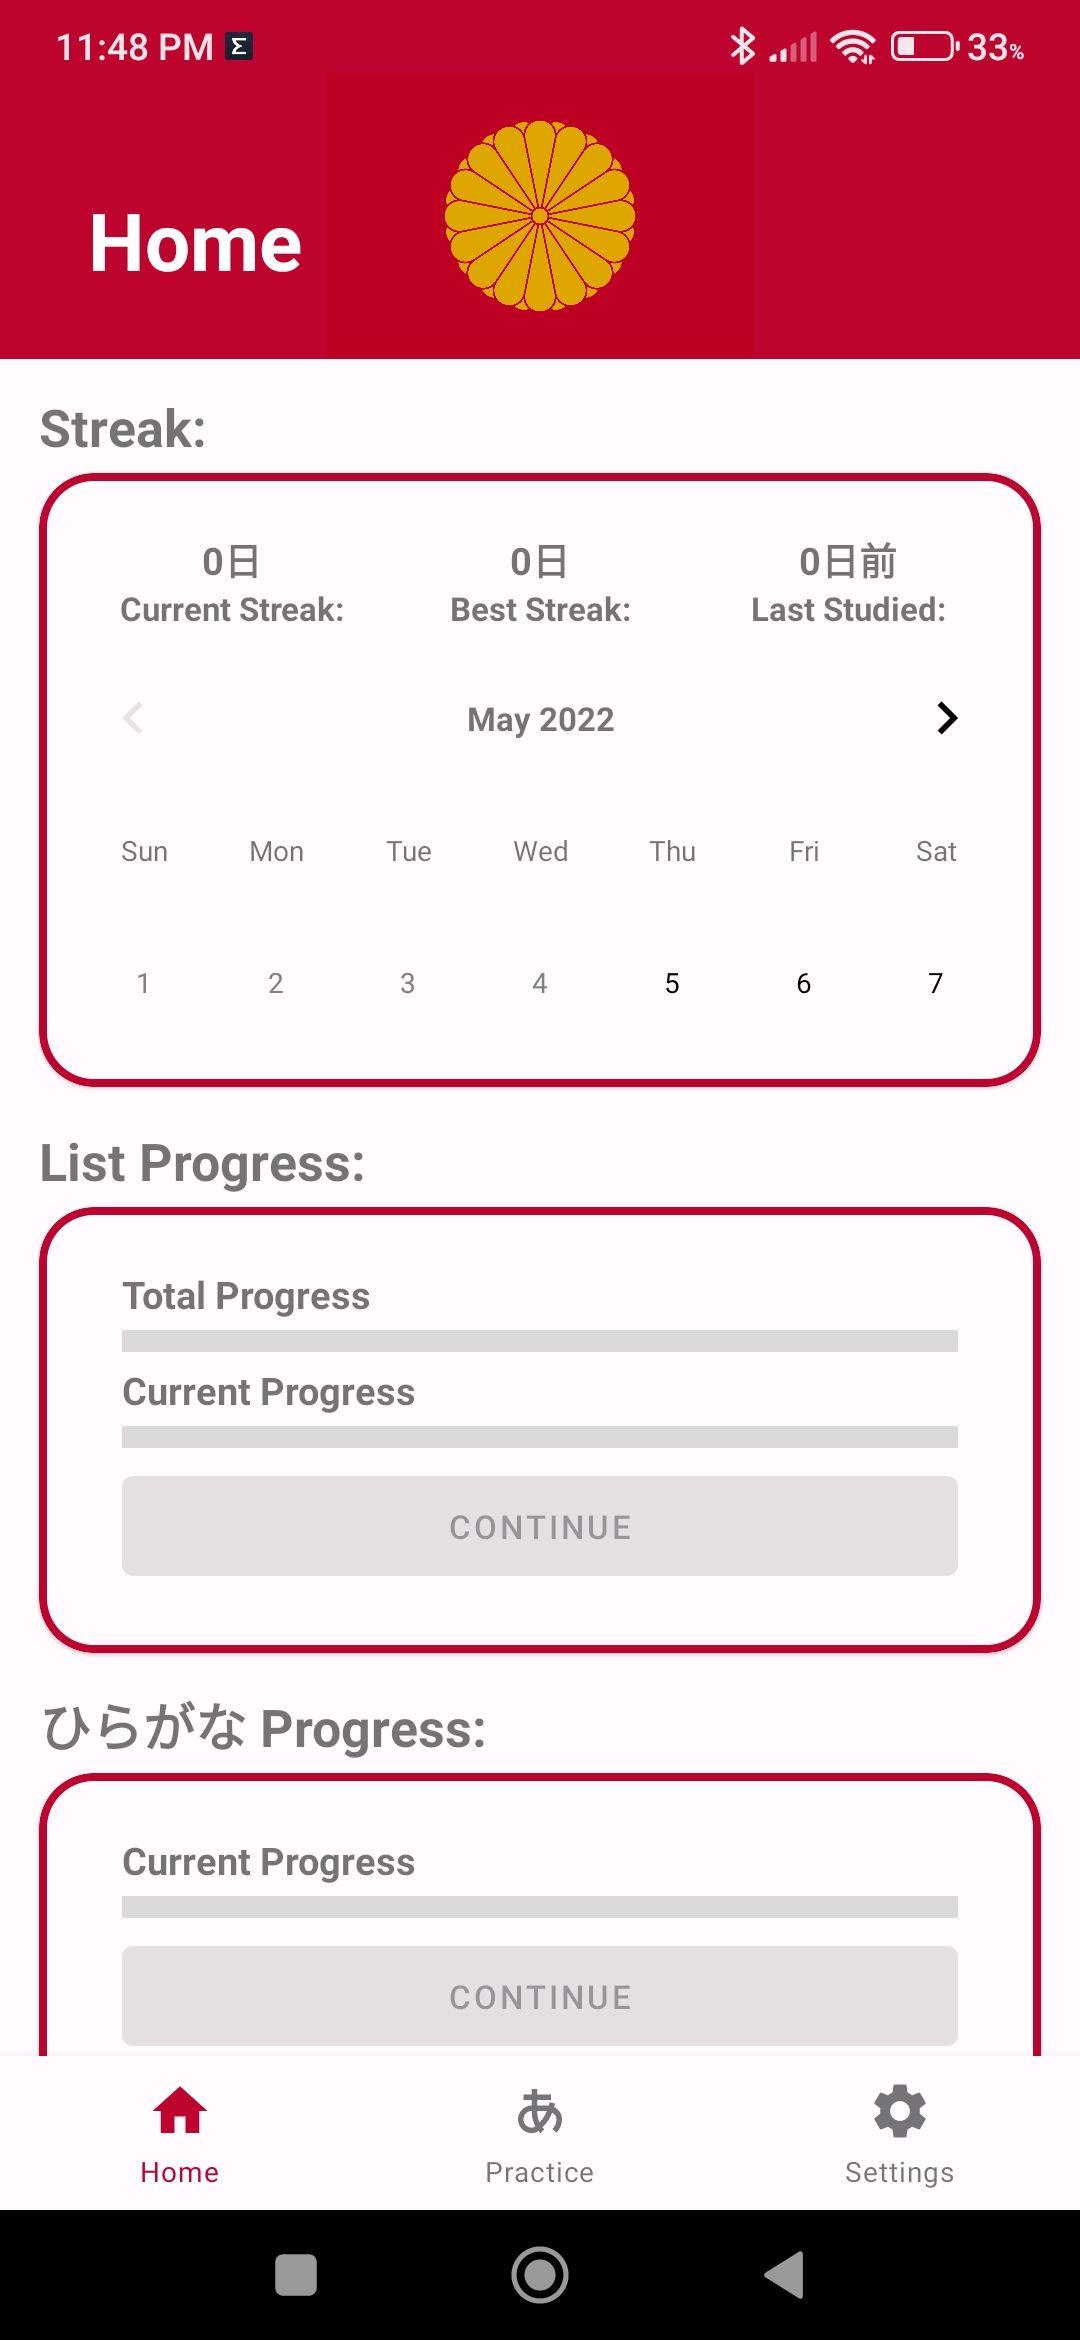
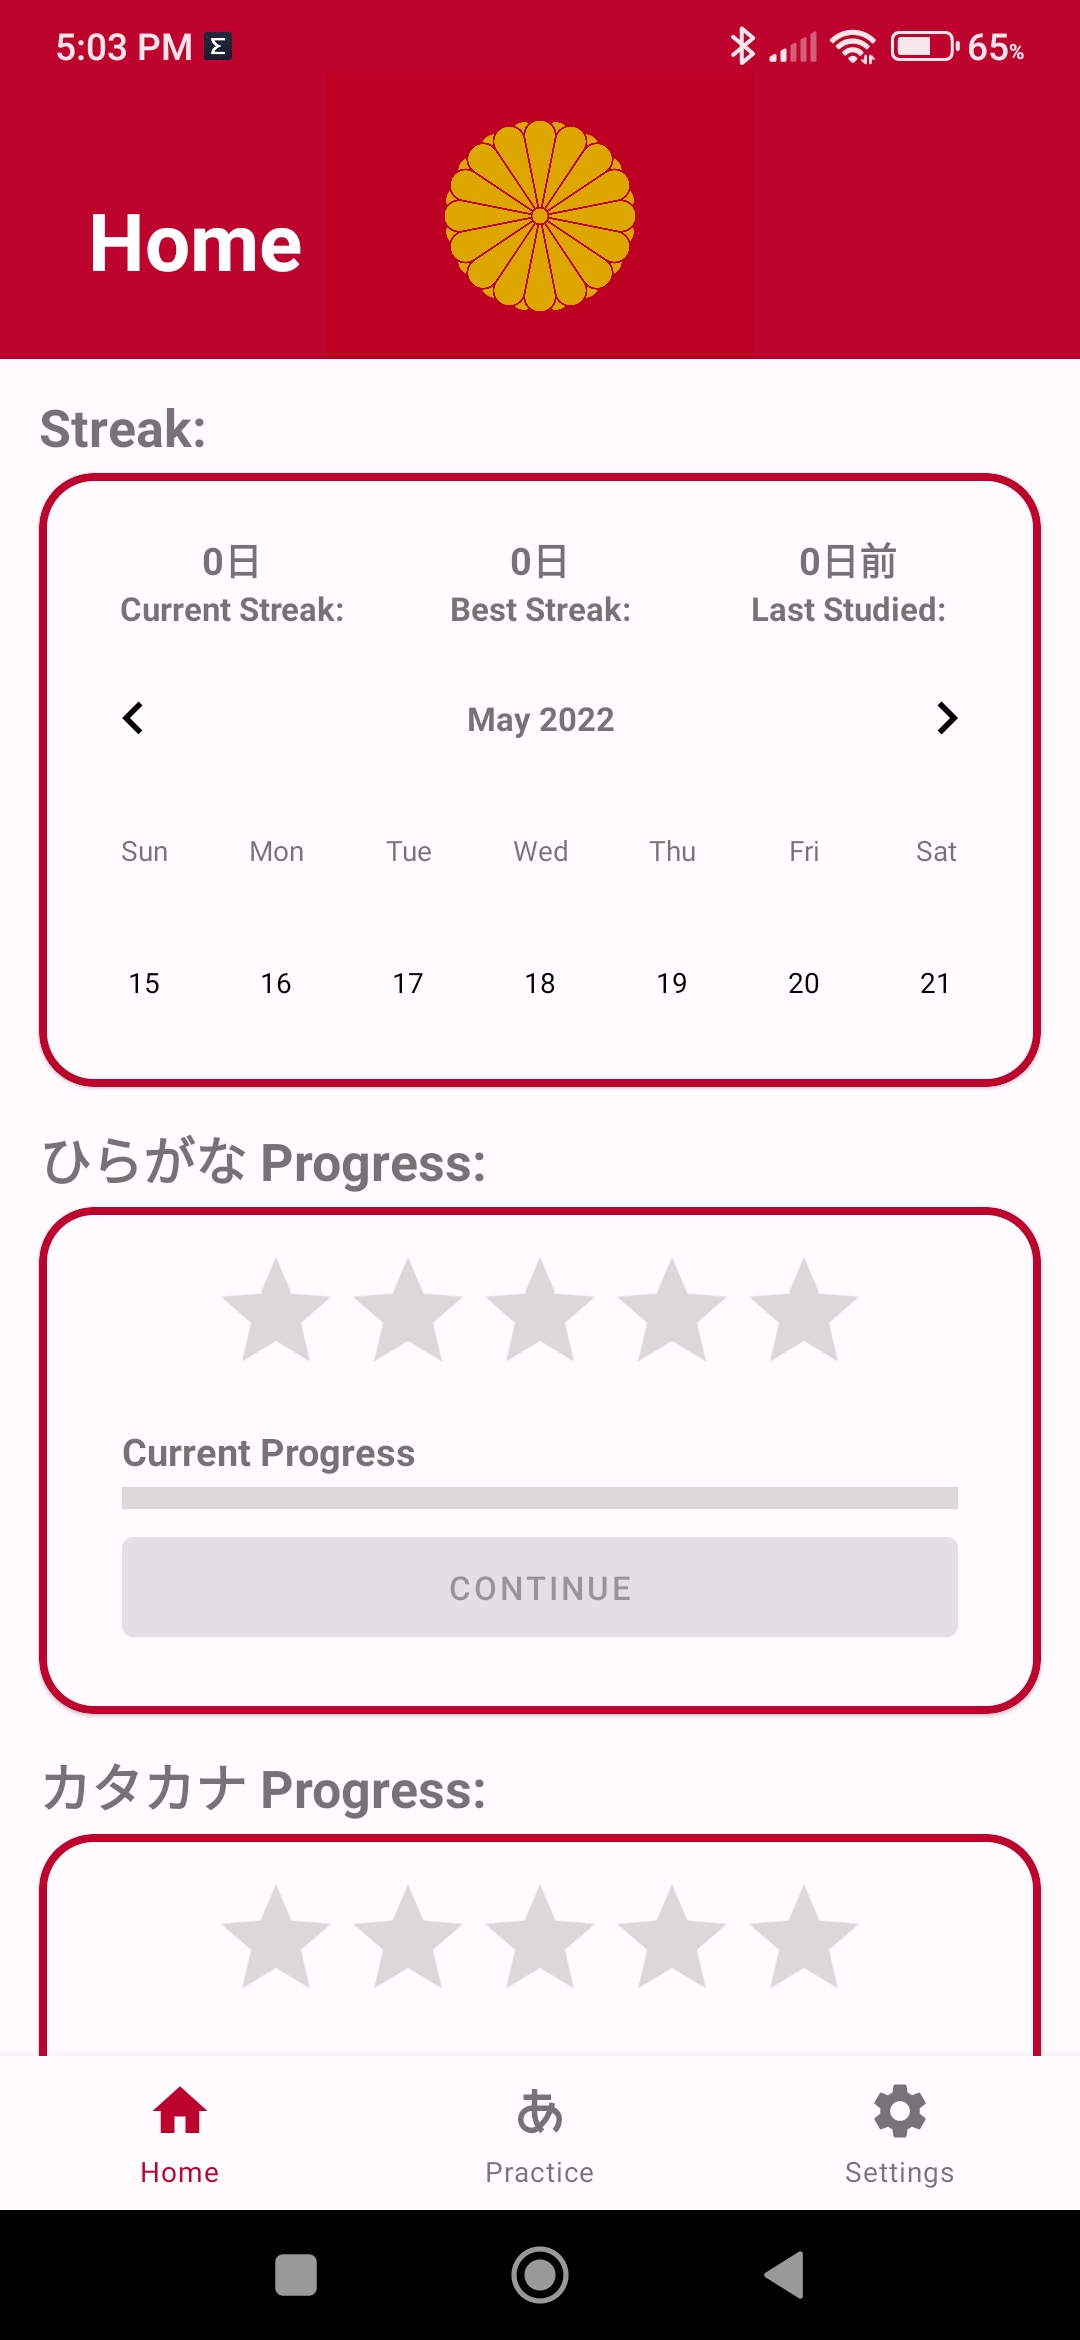
Small bug fix and re-added images

diff --git a/app/src/main/java/com/example/renshu/home/HomeFragment.kt b/app/src/main/java/com/example/renshu/home/HomeFragment.kt
@@ -12,17 +12,12 @@ import com.example.renshu.R
 import com.example.renshu.databinding.FragmentHomeBinding
 import com.example.renshu.generic.CalendarDayExtension.toCalendarDay
 import com.example.shudomain.exercise.model.AlphabetExercise
-import com.example.shudomain.exercise.model.AlphabetExerciseCharacter
 import com.example.shudomain.exercise.model.ExerciseStreak
 import com.example.shupresentation.generic.mvvm.UIState
 import com.example.shupresentation.home.HomeNavigationAction
 import com.example.shupresentation.home.HomeViewModel
 import com.prolificinteractive.materialcalendarview.CalendarDay
 import dagger.android.support.DaggerFragment
-import kotlinx.datetime.Clock
-import kotlinx.datetime.TimeZone
-import kotlinx.datetime.toJavaLocalDateTime
-import kotlinx.datetime.toLocalDateTime
 import java.text.SimpleDateFormat
 import java.util.*
 import javax.inject.Inject
@@ -49,9 +44,13 @@ class HomeFragment : DaggerFragment(R.layout.fragment_home) {
     private fun setCurrentMonth() {
         val simpleDateFormat = SimpleDateFormat("MM/dd/yyyy HH:mm:ss", Locale.getDefault())
         val installDate = simpleDateFormat.parse(sharedPreferences.getString("install_date", "").toString())
-            ?: simpleDateFormat.parse(Clock.System.now().toLocalDateTime(TimeZone.currentSystemDefault()).toJavaLocalDateTime().toString())
 
-        val calendarDay = CalendarDay.from(installDate.year + 1900, installDate.month + 1, installDate.day)
+        val today = Date()
+        var calendarDay = CalendarDay.from(today.year + 1900, today.month + 1, today.date)
+
+        if (installDate != null) {
+            calendarDay = CalendarDay.from(installDate.year + 1900, installDate.month + 1, installDate.date)
+        }
 
         ui.calendarView.state().edit()
             .setMinimumDate(calendarDay)

diff --git a/shudata/src/main/java/com/example/shudata/database/converter/EntityConverter.kt b/shudata/src/main/java/com/example/shudata/database/converter/EntityConverter.kt
@@ -71,7 +71,7 @@ object EntityConverter {
             currentItem = this.currentItem,
             exercisesDone = this.exercisesDone,
             exercisesTodo = this.exercisesTodo,
-            practiceData = Date(),
+            practiceData = Date(System.currentTimeMillis()),
             completed = this.completed,
             mastered = this.mastered,
         )
